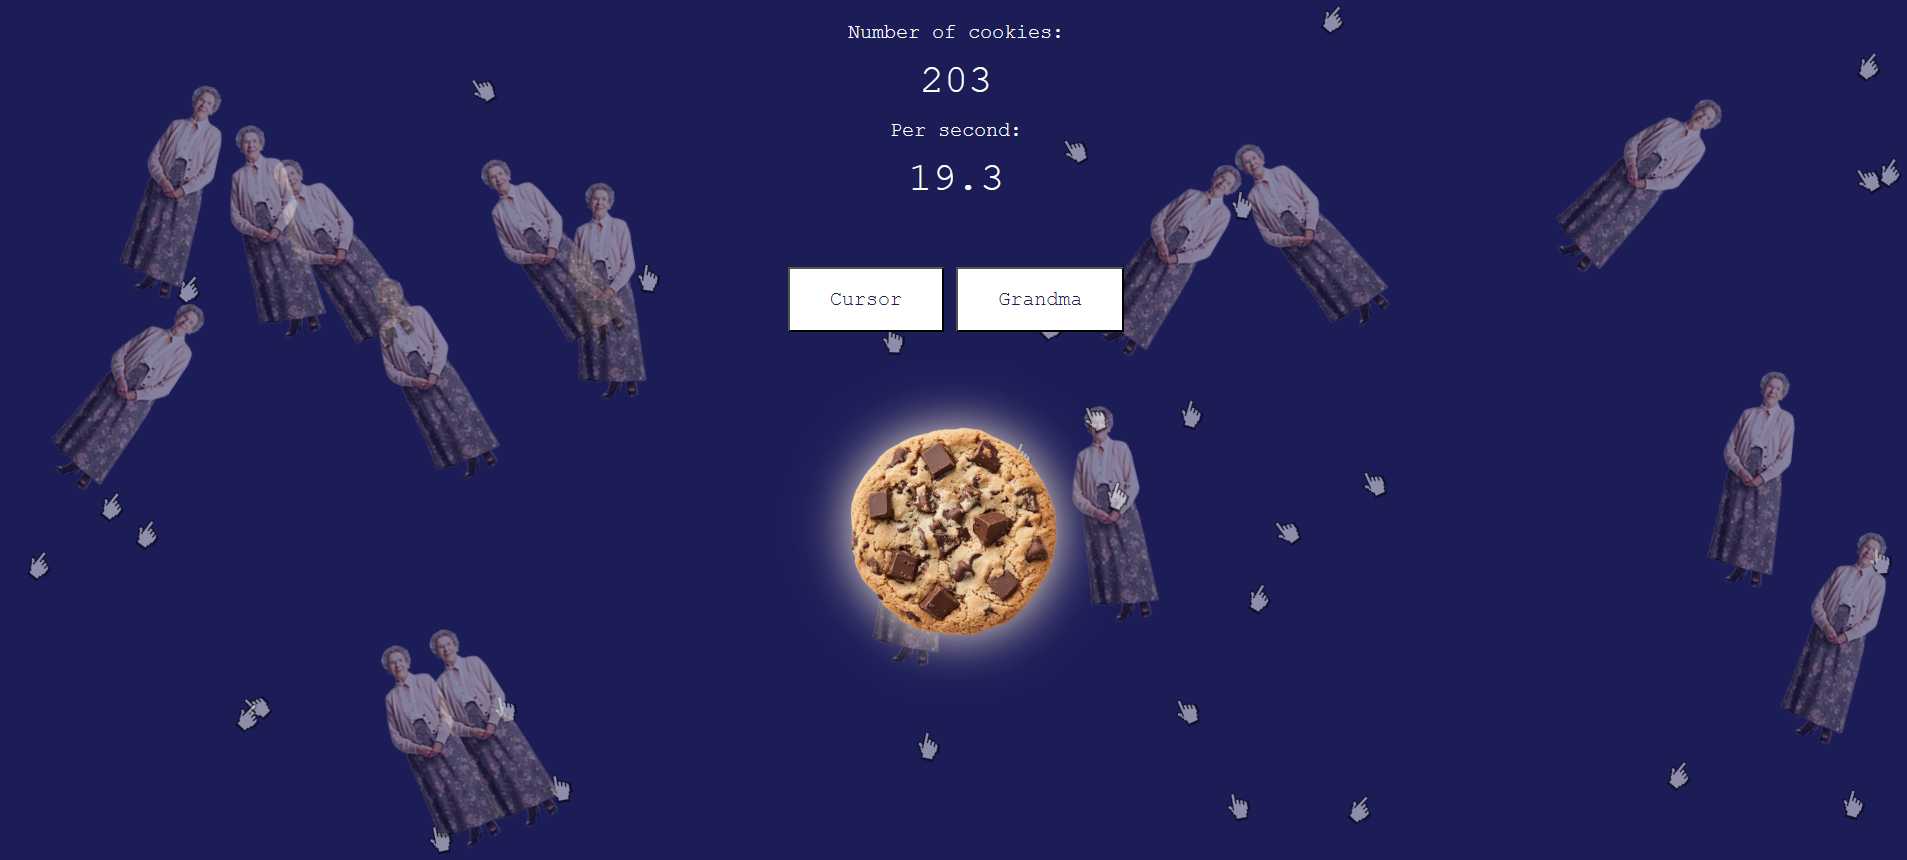
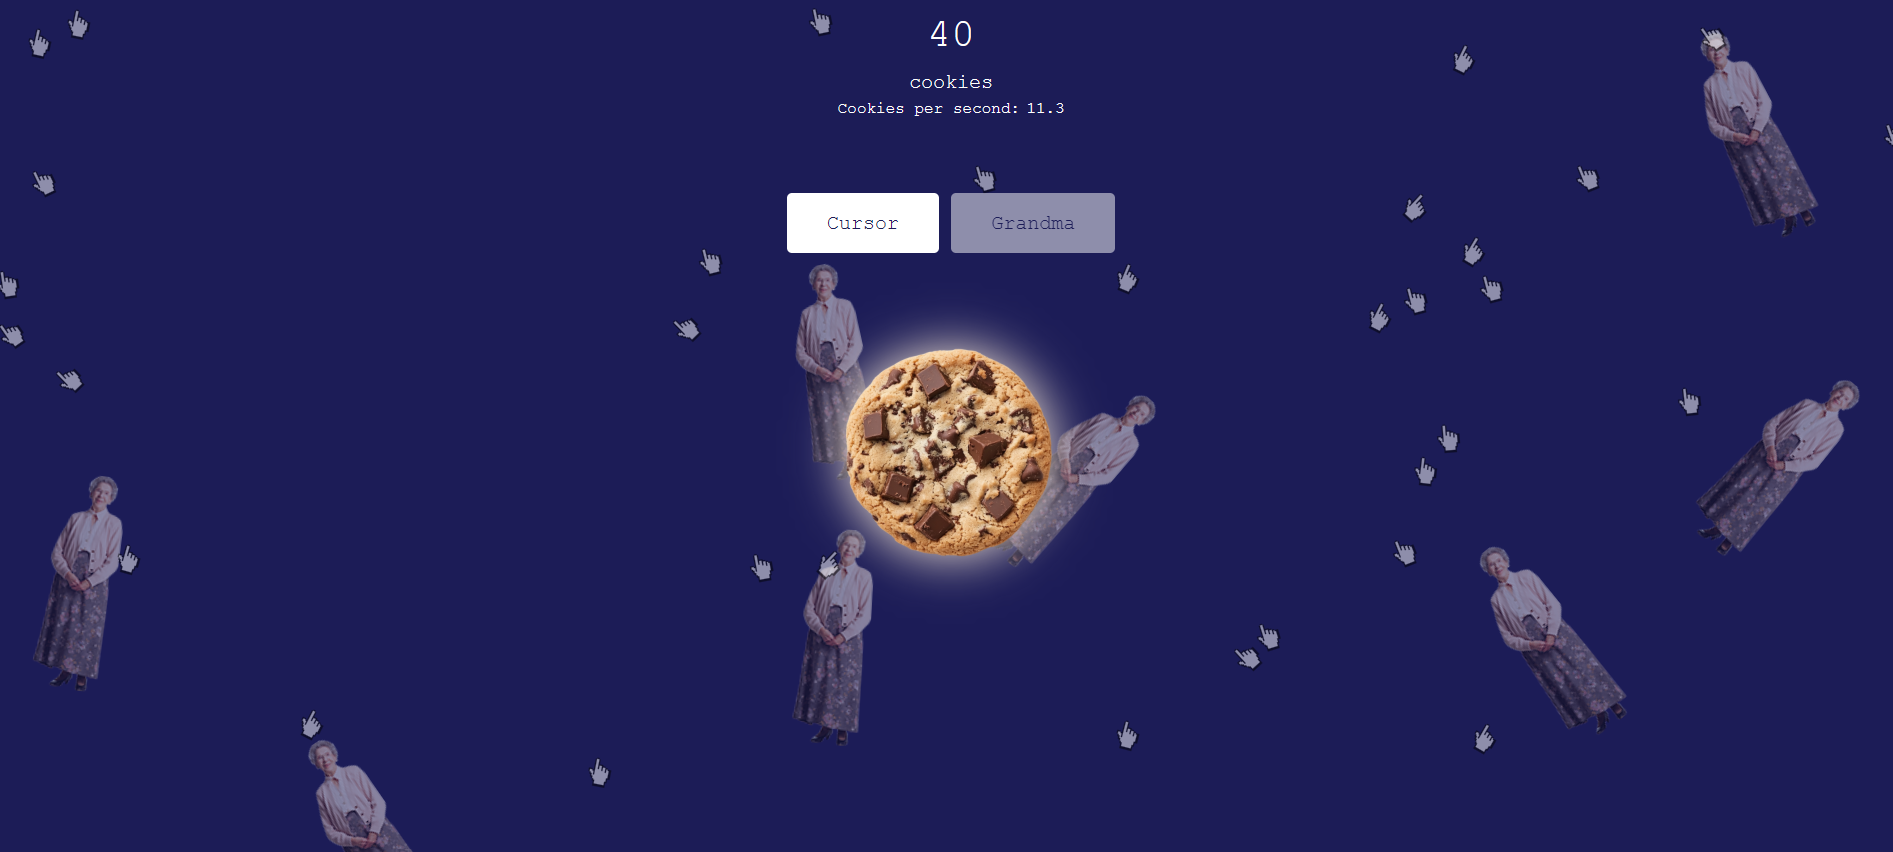
cleaned up layout

diff --git a/style.css b/style.css
@@ -5,27 +5,55 @@ body {
   padding: 0;
   overflow: hidden;
   font-family: "Courier New", Courier, monospace;
+  color: white;
 }
 
-/* Tekst */
+/* Generel tekst */
 p {
-  color: white;
-  font-size: 1rem; /* mindre tekst end tallene */
+  font-size: 1rem;
+  margin: 0; /* fjern unødig afstand, brug flex gap i stedet */
   text-align: center;
-  margin: 10px 0; /* mindre margin mellem tekststykker */
   position: relative;
   z-index: 10;
 }
 
-/* Score / tal */
-.num-cookies-container,
-.per-second-container {
-  color: white;
-  font-size: 2rem; /* store tal */
+/* Hovedtal */
+.num-cookies-container {
+  font-size: 2rem;
+  margin: 10px 0;
   text-align: center;
-  margin: 2px 0; /* lidt mindre mellem tal og tekst */
   position: relative;
-  z-index: 10; /* højere end grafik */
+  z-index: 10;
+}
+
+/* Cookies per second */
+.per-second-container {
+  display: flex;
+  align-items: center; /* gør at tekst og tal står på linje */
+  justify-content: center;
+  gap: 5px; /* afstand mellem "tekst" og tal */
+  font-size: 0.8rem;
+  margin-top: 5px;
+  position: relative;
+  z-index: 10;
+}
+
+.per-second-container p {
+  font-size: inherit; /* arver fra container */
+}
+
+.per-second-text {
+  font-size: inherit; /* arver fra container */
+}
+
+/* Score container (samler tallene) */
+.score-container {
+  display: flex;
+  flex-direction: column;
+  align-items: center;
+  margin-top: 10px;
+  position: relative;
+  z-index: 10;
 }
 
 /* Knapper */
@@ -36,6 +64,8 @@ button {
   padding: 15px 32px;
   font-size: 16px;
   cursor: pointer;
+  border: none;
+  border-radius: 4px;
 }
 
 button:disabled {
@@ -43,49 +73,40 @@ button:disabled {
   cursor: default;
 }
 
-/* Containers */
+/* Upgrades container */
 .upgrades-container {
   display: flex;
   justify-content: center;
   gap: 10px;
-  margin: 60px 0 60px 0; /* større afstand: 20px ovenfor, 40px nedenfor */
+  margin: 60px 0;
   position: relative;
   z-index: 10;
 }
 
+/* Cookie billede */
 .cookie-container {
   display: flex;
   justify-content: center;
   align-items: center;
-  margin-top: 20px; /* mere afstand fra knapper */
+  margin-top: 20px;
   position: relative;
   z-index: 10;
 }
 
-.score-container {
-  display: flex;
-  flex-direction: column;
-  align-items: center;
-  top: 10px;
-  position: relative;
-  z-index: 10;
-}
-
-/* Grafik-container */
-.graphics {
-  position: absolute;
-  width: 100%;
-  height: 100%;
-  z-index: 0;
-}
-
-/* Cookie billede */
 .cookie img {
   cursor: pointer;
   display: block;
   filter: drop-shadow(0 0 20px antiqueWhite);
   position: relative;
   z-index: 10;
+}
+
+/* Grafik baggrund */
+.graphics {
+  position: absolute;
+  width: 100%;
+  height: 100%;
+  z-index: 0;
 }
 
 /* Animation */
@@ -95,16 +116,16 @@ button:disabled {
 
 @keyframes bounce {
   10% {
-    transform: scaleX(0.8) scaleY(0.8);
+    transform: scale(0.8);
   }
   20% {
-    transform: scaleX(1.3) scaleY(1.3);
+    transform: scale(1.3);
   }
   30% {
     transform: none;
   }
   40% {
-    transform: scaleX(1.1) scaleY(1.1);
+    transform: scale(1.1);
   }
   50% {
     transform: none;

diff --git a/index.html b/index.html
@@ -8,10 +8,12 @@
   </head>
   <body>
     <div class="score-container">
-      <p>Number of cookies:</p>
       <div class="num-cookies-container"></div>
-      <p>Per second:</p>
-      <div class="per-second-container"></div>
+      <p>cookies</p>
+      <div class="per-second-container">
+        <p class="">Cookies per second:</p>
+        <div class="per-second-text"></div>
+      </div>
     </div>
     <div class="upgrades-container">
       <button

diff --git a/app.js b/app.js
@@ -1,7 +1,7 @@
 // references to HTML-elements
 const cookieEl = document.querySelector(".cookie");
 const cookiesEl = document.querySelector(".num-cookies-container");
-const perSecEl = document.querySelector(".per-second-container");
+const perSecEl = document.querySelector(".per-second-text");
 const cookieAudio = document.querySelector(".cookie-audio");
 const upgradeBtns = document.querySelectorAll(".upgrade-btn");
 
